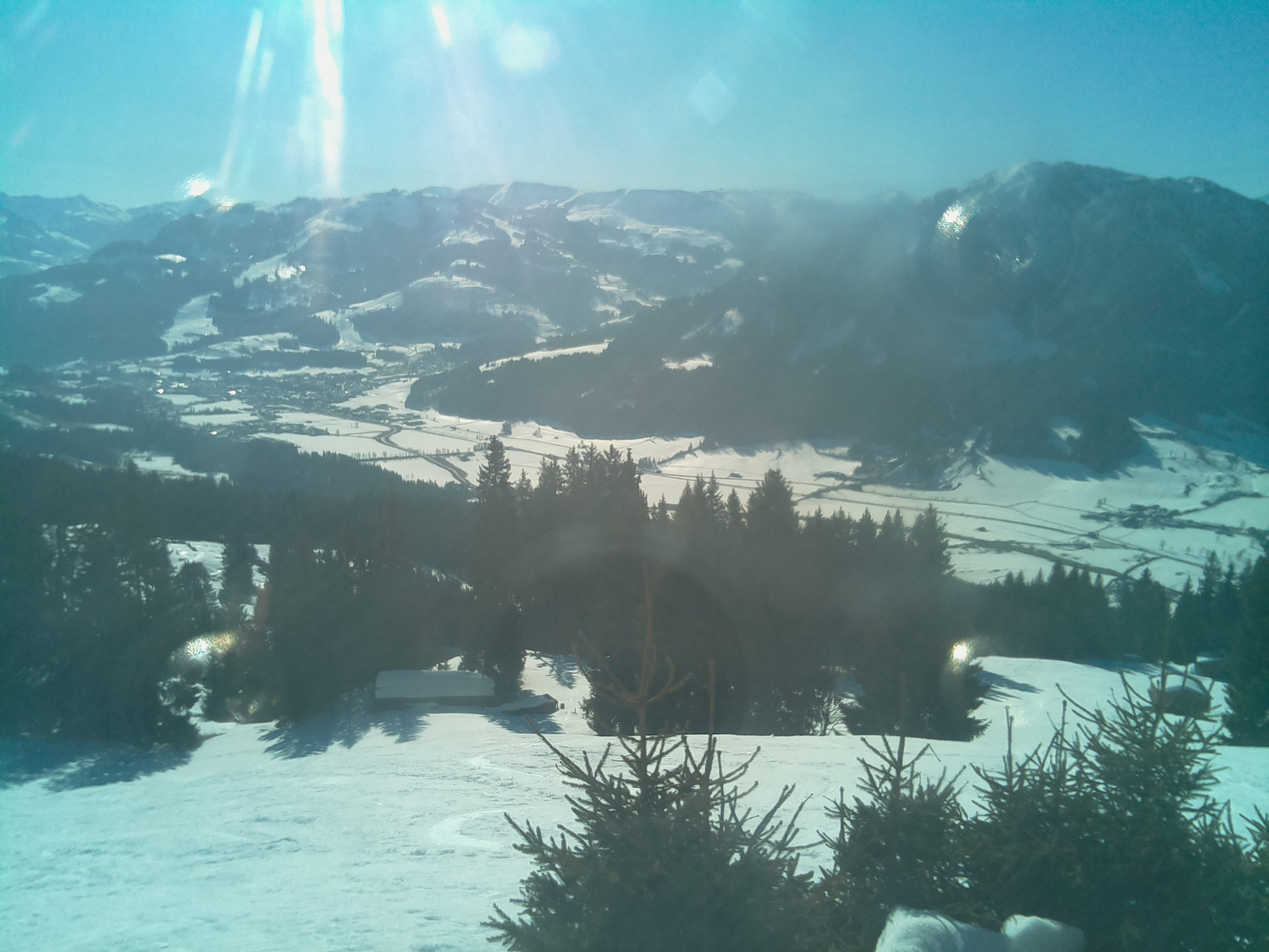
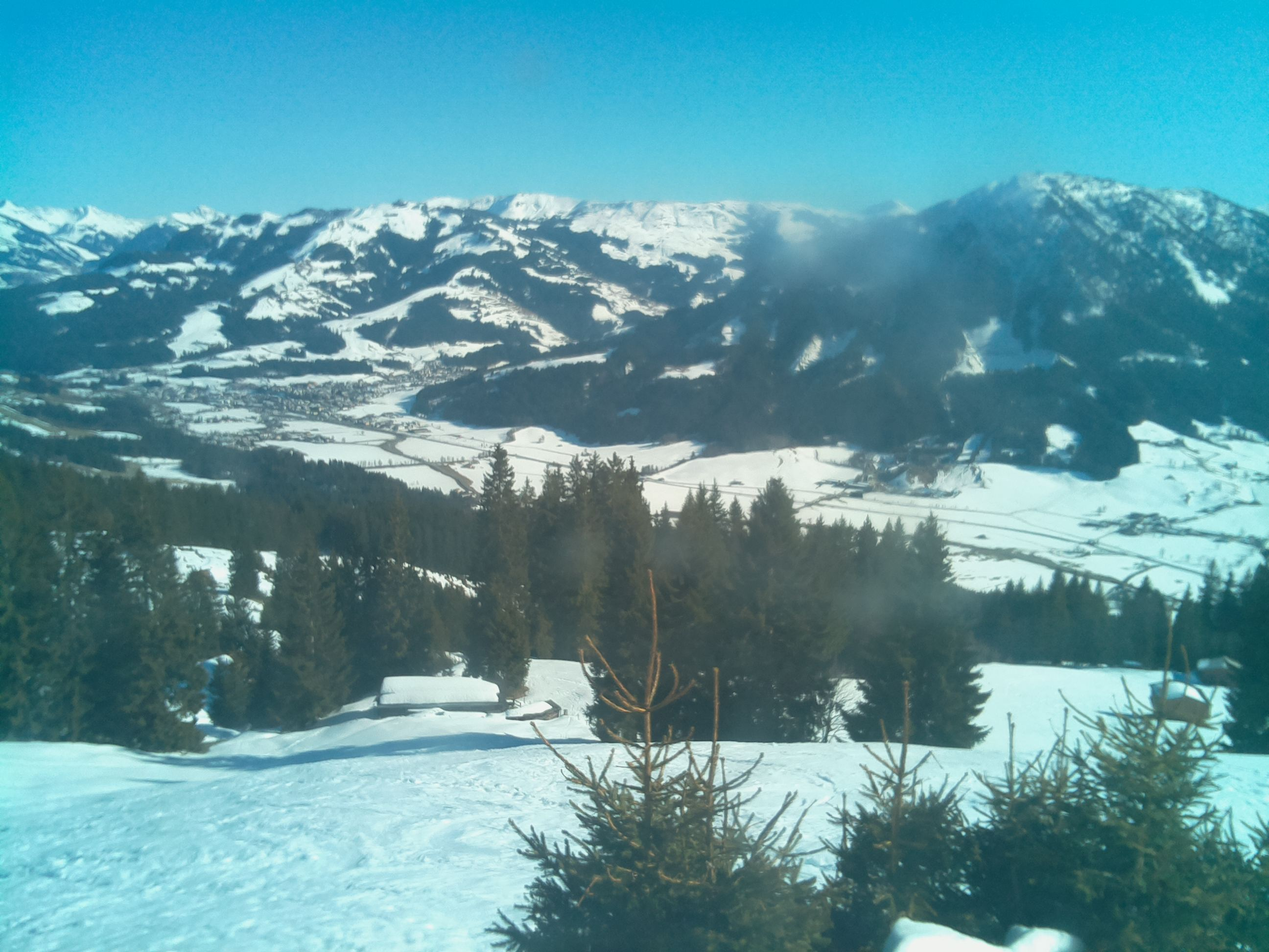
I'm a bot beep boop

diff --git a/resources/huette.md b/resources/huette.md
@@ -6,13 +6,13 @@ image: '/assets/img/'
 description: 'Live image from the Austrian alps'
 twitter_text: ' '
 ---
-## Latest image from 13 March 2022 at  9:11
+## Latest image from 13 March 2022 at 15:11
 <div class="huette">
   <div class="huette-image">
     <img src="{{ "/assets/img/huette.jpg" | prepend: site.baseurl }}">
   </div>
   <div class="huette-text">
-        <h2>Current Temperature: 12.812°C</h2>
+        <h2>Current Temperature: 12.437°C</h2>
         <p>A solar powered raspberry pi left alone in the wild is sending daily images and temperature data to this website. It should give you an impression about the current weather in the "Brixental".</p>
 
   </div>

diff --git a/rpi-script/huette.md b/rpi-script/huette.md
@@ -6,13 +6,13 @@ image: '/assets/img/'
 description: 'Live image from the Austrian alps'
 twitter_text: ' '
 ---
-## Latest image from 13 March 2022 at  9:11
+## Latest image from 13 March 2022 at 15:11
 <div class="huette">
   <div class="huette-image">
     <img src="{{ "/assets/img/huette.jpg" | prepend: site.baseurl }}">
   </div>
   <div class="huette-text">
-        <h2>Current Temperature: 12.812°C</h2>
+        <h2>Current Temperature: 12.437°C</h2>
         <p>A solar powered raspberry pi left alone in the wild is sending daily images and temperature data to this website. It should give you an impression about the current weather in the "Brixental".</p>
 
   </div>
